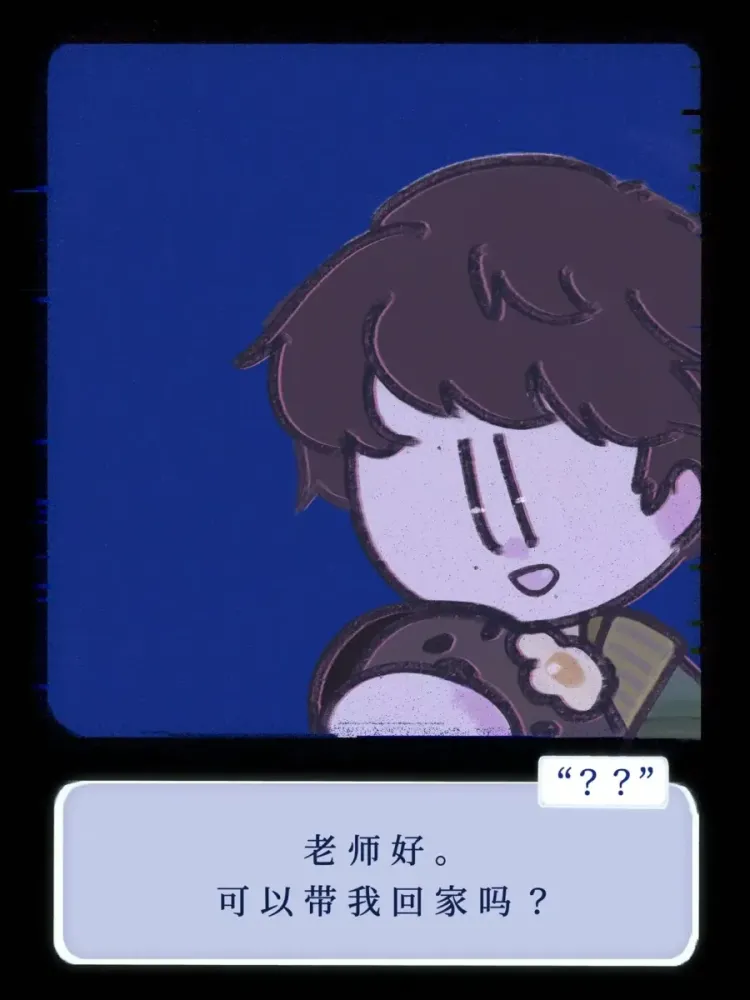
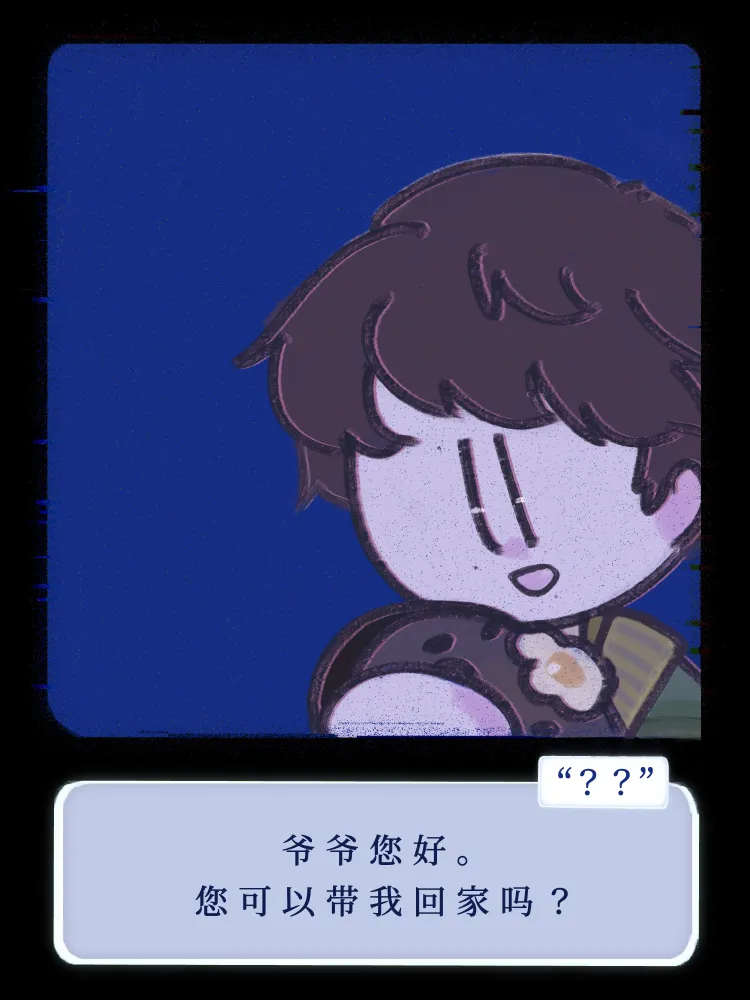
fix echo game

diff --git a/src/pages/Product.jsx b/src/pages/Product.jsx
@@ -265,7 +265,7 @@ const Product = ({ lights, setLights }) => {
 
         <div className="absolute top-[20%] left-0 right-0 z-20">
           <div className="text-center">
-            <h1 className="text-6xl font-serif font-bold text-memory-accent tracking-[0.1em]">
+            <h1 className="text-5xl font-serif font-bold text-memory-accent tracking-[0.1em]">
               {product.title}
             </h1>
           </div>
